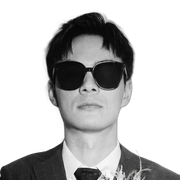
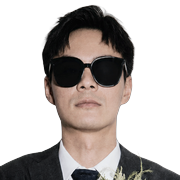
feat: colorize the portrait and pin the timeline mid-page

Changed region(s): [[0.0, 0.0278, 1.0, 1.0], [0.1389, 0.9444, 0.1667, 0.9722]]

diff --git a/src/content/site.ts b/src/content/site.ts
@@ -17,7 +17,7 @@ const bioLink = (href: string, label: string, logo: string, logoClass = "bio-log
 
 export const bio = [
   {
-    html: `I'm James, a software engineer working at ${bioLink("https://www.airwallex.com/en-au/spend-management", "Airwallex Spend", "/images/airwallex.png")}, based in ${bioLink("https://www.sydney.com/", "Sydney", "/images/sydney.svg")}, Australia.`,
+    html: `I'm James, a software engineer working at ${bioLink("https://www.airwallex.com/en-au/spend-management", "Airwallex Spend", "/images/airwallex.png")}, based in <span class="bio-brand"><img src="/images/sydney.svg" alt="" aria-hidden="true" class="bio-logo" />Sydney</span>, Australia.`,
   },
   {
     html: `Before that I was a frontend engineer at ${bioLink("https://www.tencentcloud.com", "Tencent Cloud", "/images/tencent-cloud.svg")}.`,
@@ -44,7 +44,8 @@ export const timeline = [
     year: "2017",
     company: "Hunan Wongxin Hi-tech Co., Ltd.",
     role: "Software Engineer",
-    color: "#ECA954",
+    color: "#1F8A7D",
+    ink: "#ffffff",
     rise: 70,
   },
   {
